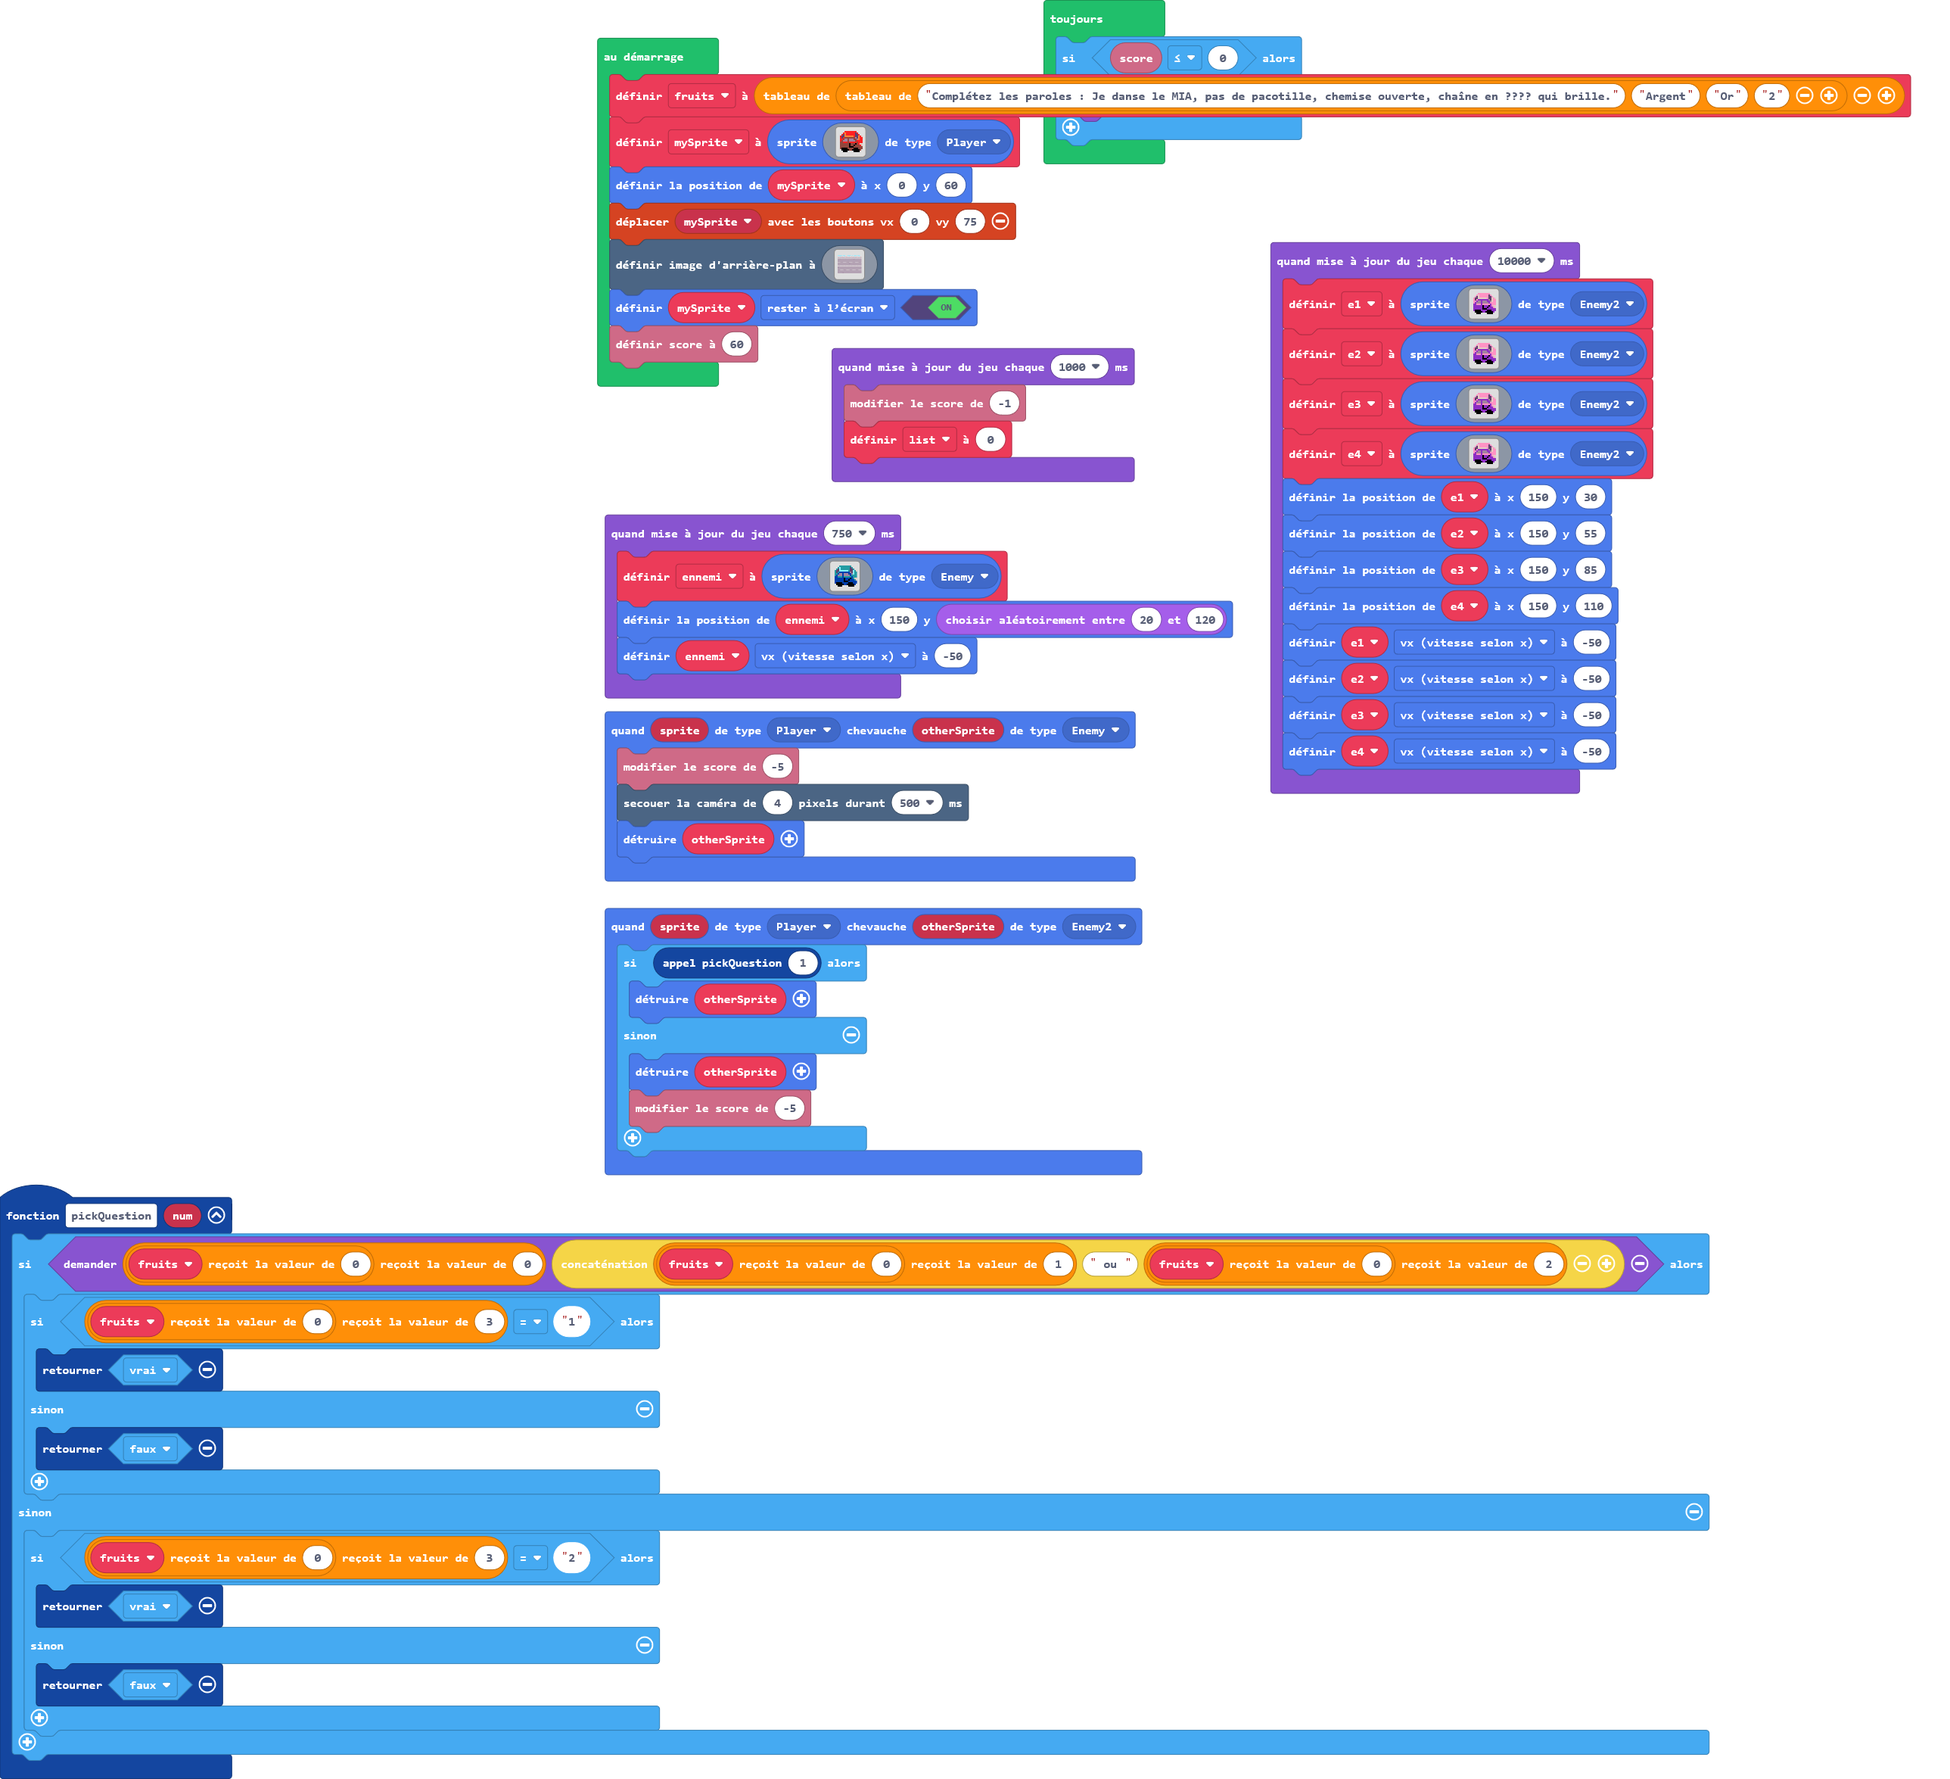
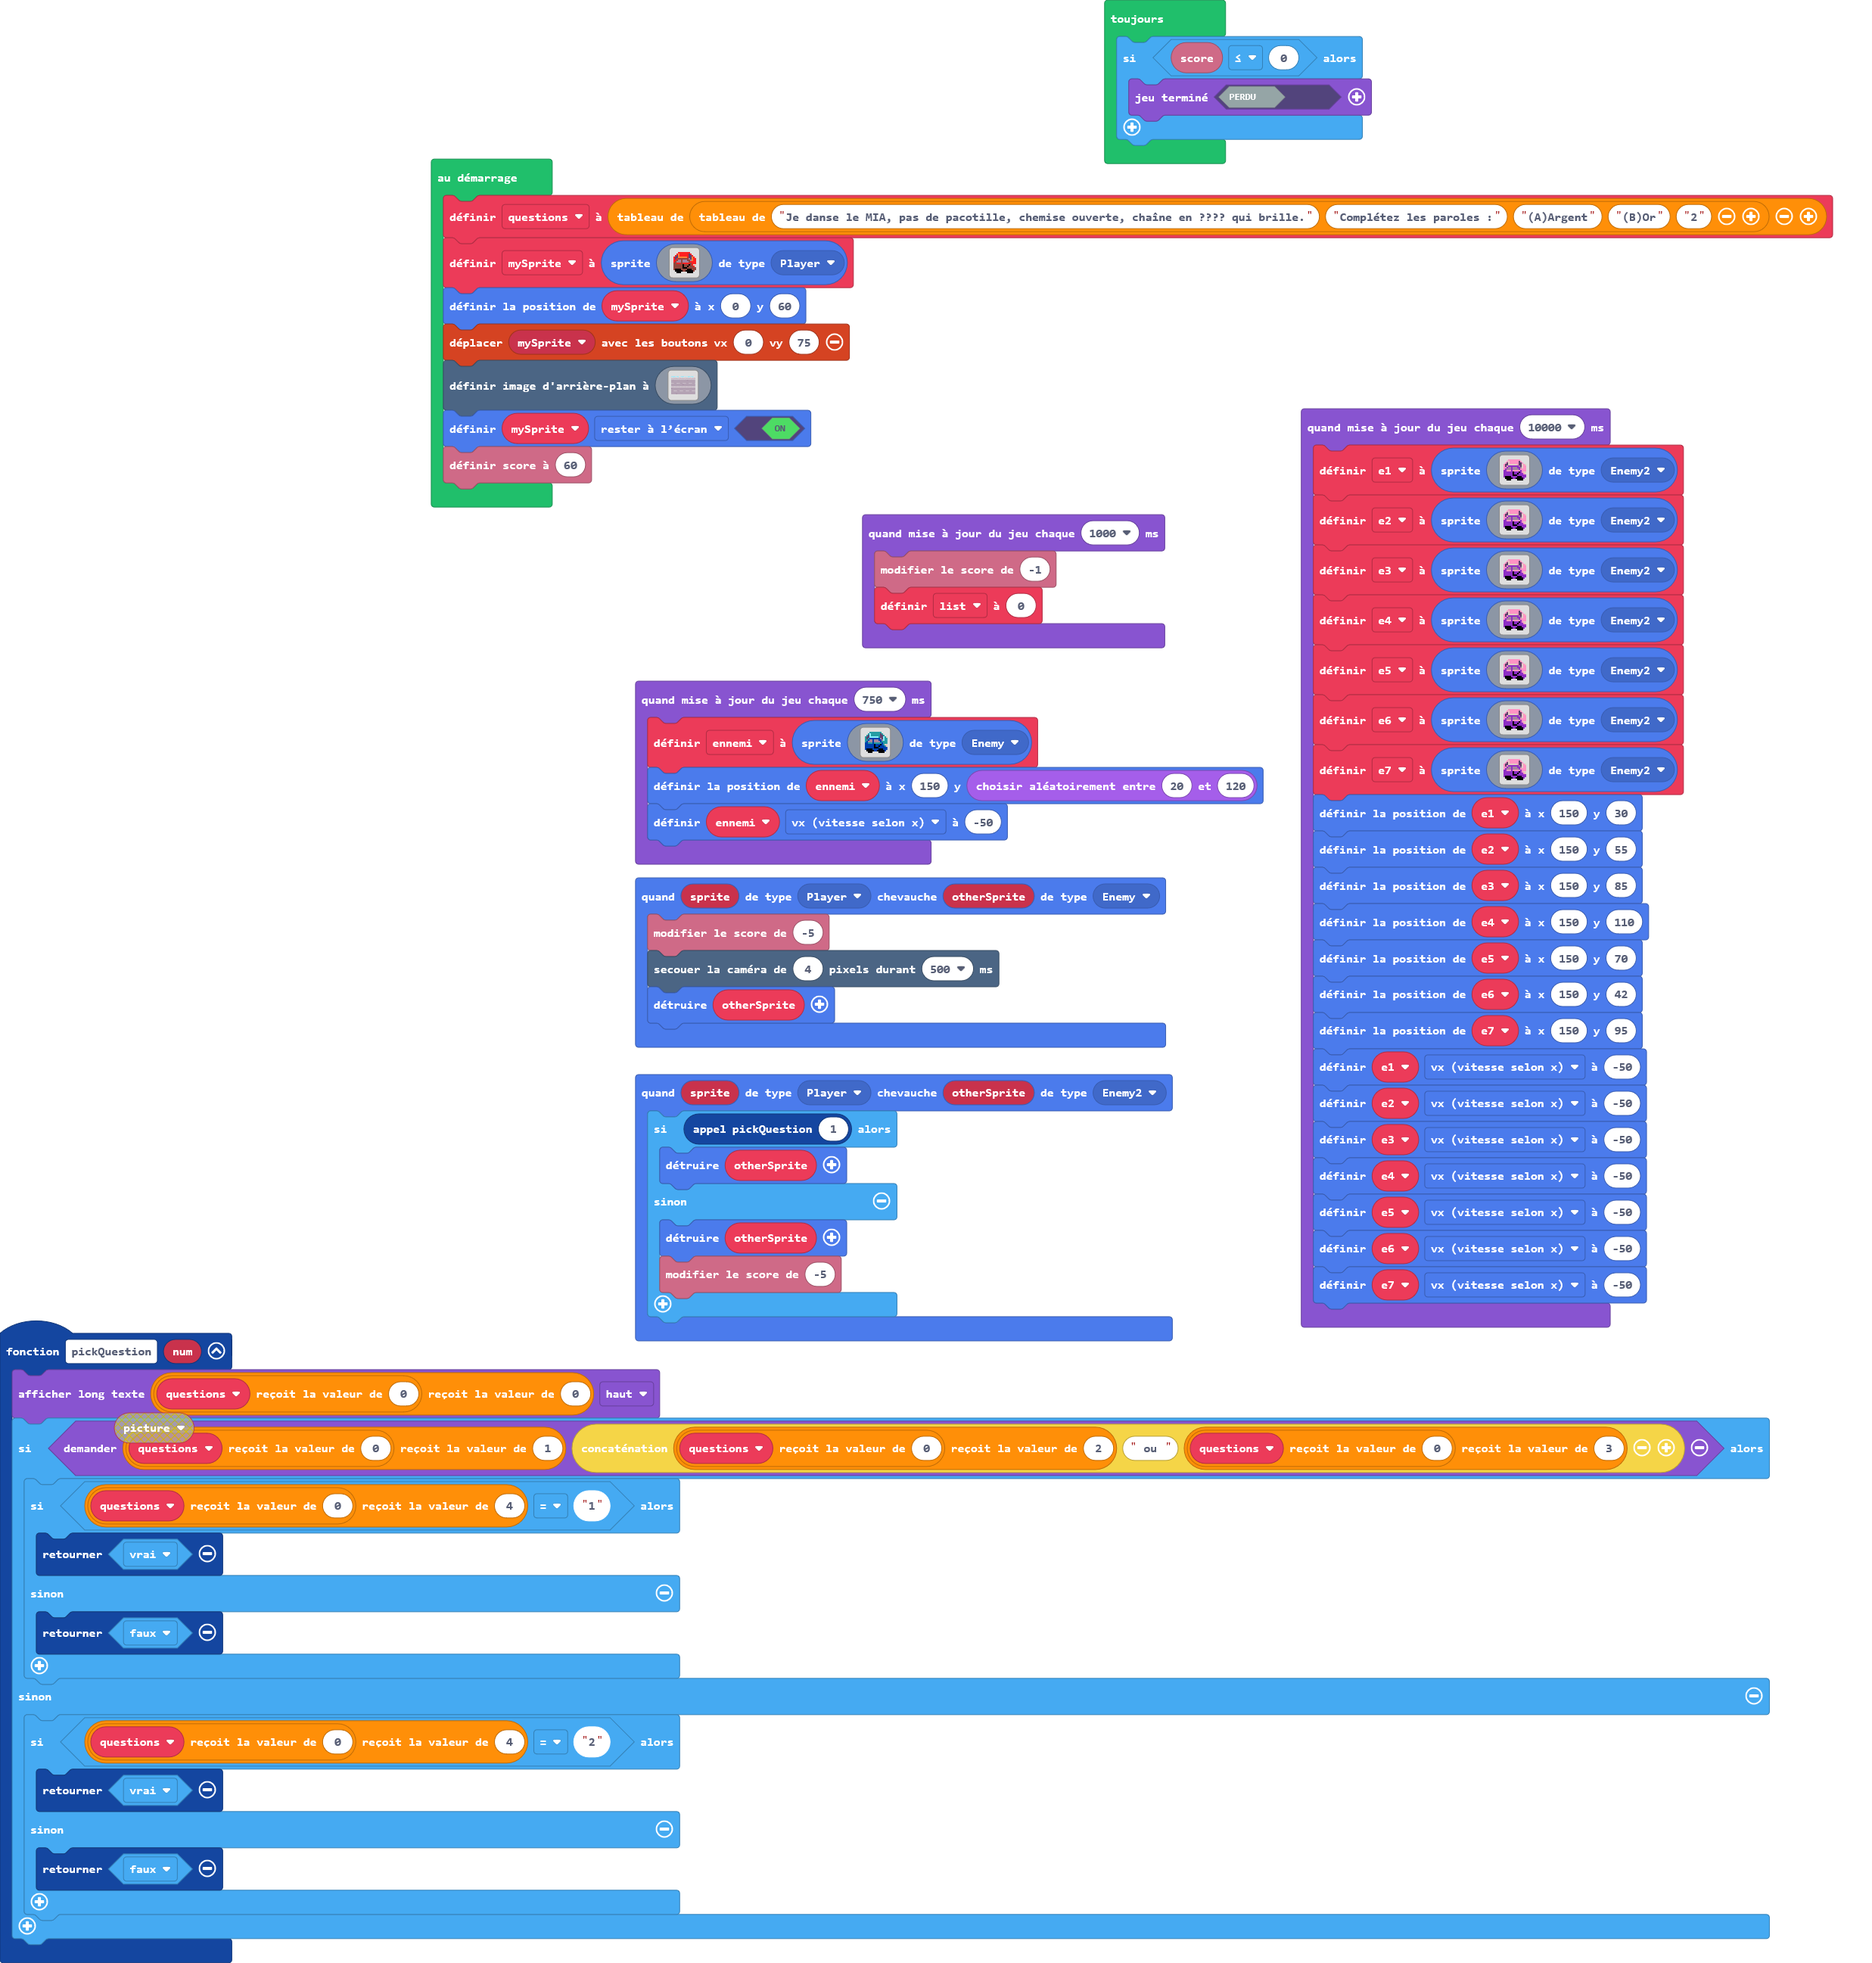
Mise à jour main.blocks, main.ts, images.g.jres, images.g.ts

diff --git a/main.ts b/main.ts
@@ -2,14 +2,15 @@ namespace SpriteKind {
     export const Enemy2 = SpriteKind.create()
 }
 function pickQuestion (num: number) {
-    if (game.ask(fruits[0][0], "" + fruits[0][1] + " ou " + fruits[0][2])) {
-        if (fruits[0][3] == "1") {
+    game.showLongText(questions[0][0], DialogLayout.Top)
+    if (game.ask(questions[0][1], "" + questions[0][2] + " ou " + questions[0][3])) {
+        if (questions[0][4] == "1") {
             return true
         } else {
             return false
         }
     } else {
-        if (fruits[0][3] == "2") {
+        if (questions[0][4] == "2") {
             return true
         } else {
             return false
@@ -29,14 +30,17 @@ sprites.onOverlap(SpriteKind.Player, SpriteKind.Enemy, function (sprite, otherSp
     scene.cameraShake(4, 500)
     otherSprite.destroy()
 })
+let e7: Sprite = null
+let e6: Sprite = null
+let e5: Sprite = null
 let e4: Sprite = null
 let e3: Sprite = null
 let e2: Sprite = null
 let e1: Sprite = null
 let list = 0
 let ennemi: Sprite = null
-let fruits: string[][] = []
-fruits = [["Complétez les paroles : Je danse le MIA, pas de pacotille, chemise ouverte, chaîne en ???? qui brille.", "Argent", "Or", "2"]]
+let questions: string[][] = []
+questions = [["Je danse le MIA, pas de pacotille, chemise ouverte, chaîne en ???? qui brille.", "Complétez les paroles :", "(A)Argent", "(B)Or", "2"]]
 let mySprite = sprites.create(img`
     . . . . . . . . . . . . . . . . 
     . . . . 2 2 2 2 2 2 2 2 . . . . 
@@ -285,12 +289,72 @@ game.onUpdateInterval(10000, function () {
         . . . f f f . . . . f f f f . . 
         . . . . . . . . . . . . . . . . 
         `, SpriteKind.Enemy2)
+    e5 = sprites.create(img`
+        . . . . . . . . . . . . . . . . 
+        . . . . 3 3 3 3 3 3 3 3 . . . . 
+        . . . 3 d 3 3 3 3 3 3 c 3 . . . 
+        . . 3 c d 3 3 3 3 3 3 c c 3 . . 
+        . 3 c c d d d d d d 3 c c d 3 d 
+        . 3 c 3 a a a a a a a b c d 3 3 
+        . 3 3 a b b a b b b a a b d 3 3 
+        . 3 a b b b a b b b b a 3 3 3 3 
+        . a a 3 3 3 a 3 3 3 3 3 a 3 3 3 
+        . a a a a a a f a a a f a 3 d d 
+        . a a a a a a f a a f a a a 3 d 
+        . a a a a a a f f f a a a a a a 
+        . a f f f f a a a a f f f a a a 
+        . . f f f f f a a f f f f f a . 
+        . . . f f f . . . . f f f f . . 
+        . . . . . . . . . . . . . . . . 
+        `, SpriteKind.Enemy2)
+    e6 = sprites.create(img`
+        . . . . . . . . . . . . . . . . 
+        . . . . 3 3 3 3 3 3 3 3 . . . . 
+        . . . 3 d 3 3 3 3 3 3 c 3 . . . 
+        . . 3 c d 3 3 3 3 3 3 c c 3 . . 
+        . 3 c c d d d d d d 3 c c d 3 d 
+        . 3 c 3 a a a a a a a b c d 3 3 
+        . 3 3 a b b a b b b a a b d 3 3 
+        . 3 a b b b a b b b b a 3 3 3 3 
+        . a a 3 3 3 a 3 3 3 3 3 a 3 3 3 
+        . a a a a a a f a a a f a 3 d d 
+        . a a a a a a f a a f a a a 3 d 
+        . a a a a a a f f f a a a a a a 
+        . a f f f f a a a a f f f a a a 
+        . . f f f f f a a f f f f f a . 
+        . . . f f f . . . . f f f f . . 
+        . . . . . . . . . . . . . . . . 
+        `, SpriteKind.Enemy2)
+    e7 = sprites.create(img`
+        . . . . . . . . . . . . . . . . 
+        . . . . 3 3 3 3 3 3 3 3 . . . . 
+        . . . 3 d 3 3 3 3 3 3 c 3 . . . 
+        . . 3 c d 3 3 3 3 3 3 c c 3 . . 
+        . 3 c c d d d d d d 3 c c d 3 d 
+        . 3 c 3 a a a a a a a b c d 3 3 
+        . 3 3 a b b a b b b a a b d 3 3 
+        . 3 a b b b a b b b b a 3 3 3 3 
+        . a a 3 3 3 a 3 3 3 3 3 a 3 3 3 
+        . a a a a a a f a a a f a 3 d d 
+        . a a a a a a f a a f a a a 3 d 
+        . a a a a a a f f f a a a a a a 
+        . a f f f f a a a a f f f a a a 
+        . . f f f f f a a f f f f f a . 
+        . . . f f f . . . . f f f f . . 
+        . . . . . . . . . . . . . . . . 
+        `, SpriteKind.Enemy2)
     e1.setPosition(150, 30)
     e2.setPosition(150, 55)
     e3.setPosition(150, 85)
     e4.setPosition(150, 110)
+    e5.setPosition(150, 70)
+    e6.setPosition(150, 42)
+    e7.setPosition(150, 95)
     e1.vx = -50
     e2.vx = -50
     e3.vx = -50
     e4.vx = -50
+    e5.vx = -50
+    e6.vx = -50
+    e7.vx = -50
 })

diff --git a/images.g.ts b/images.g.ts
@@ -202,6 +202,25 @@ eeee2eeeeffffffffffffffffffffffffeeffffeeeeeeeeee22eeeee222ee2222ee2222222222222
[2 lines of base64/hex data omitted]
 `;
+            case "image6":
+            case "myImage4":return img`
+. . . . . . . . . . . . . . . . 
+. . . . . . . . . . . . . . . . 
+. . . . . . . . . . . . . . . . 
+. . . . . . . . . . . . . . . . 
+. . . . . . . . . . . . . . . . 
+. . . . . . . . . . . . . . . . 
+. . . . . . . . . . . . . . . . 
+. . . . . . . . . . . . . . . . 
+. . . . . . . . . . . . . . . . 
+. . . . . . . . . . . . . . . . 
+. . . . . . . . . . . . . . . . 
+. . . . . . . . . . . . . . . . 
+. . . . . . . . . . . . . . . . 
+. . . . . . . . . . . . . . . . 
+. . . . . . . . . . . . . . . . 
+. . . . . . . . . . . . . . . . 
+`;
         }
         return null;
     })
